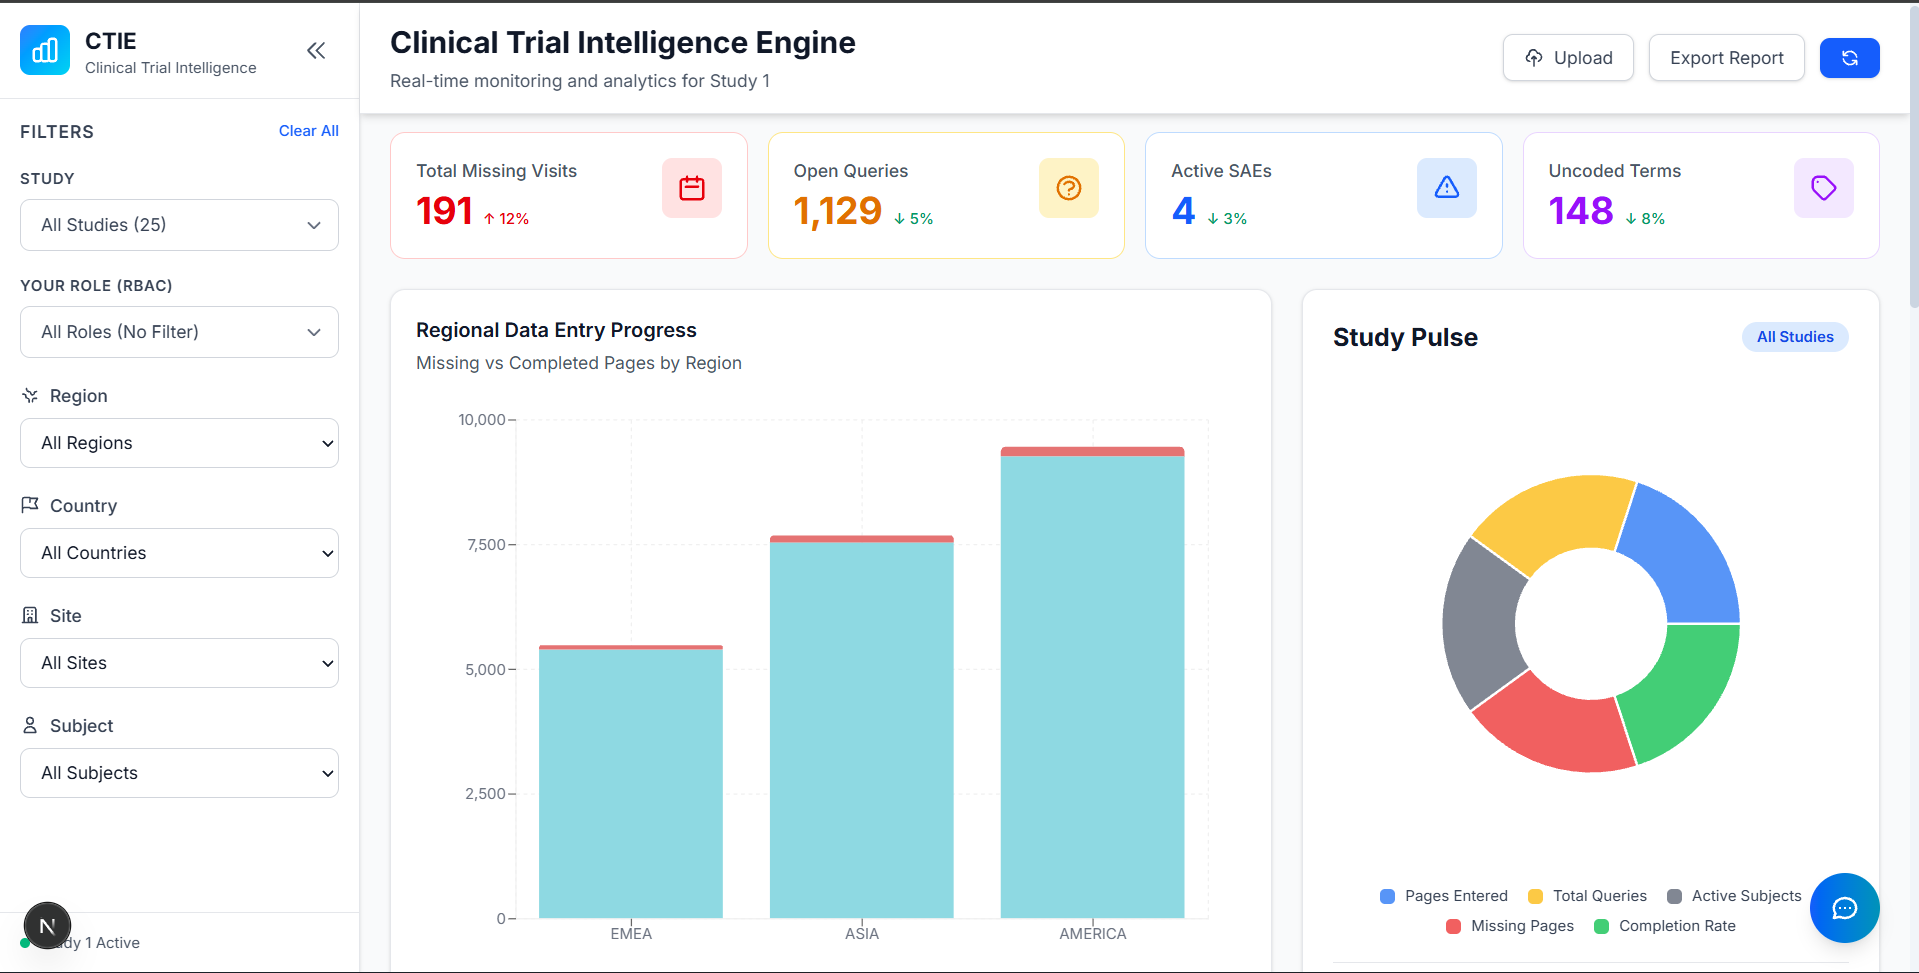
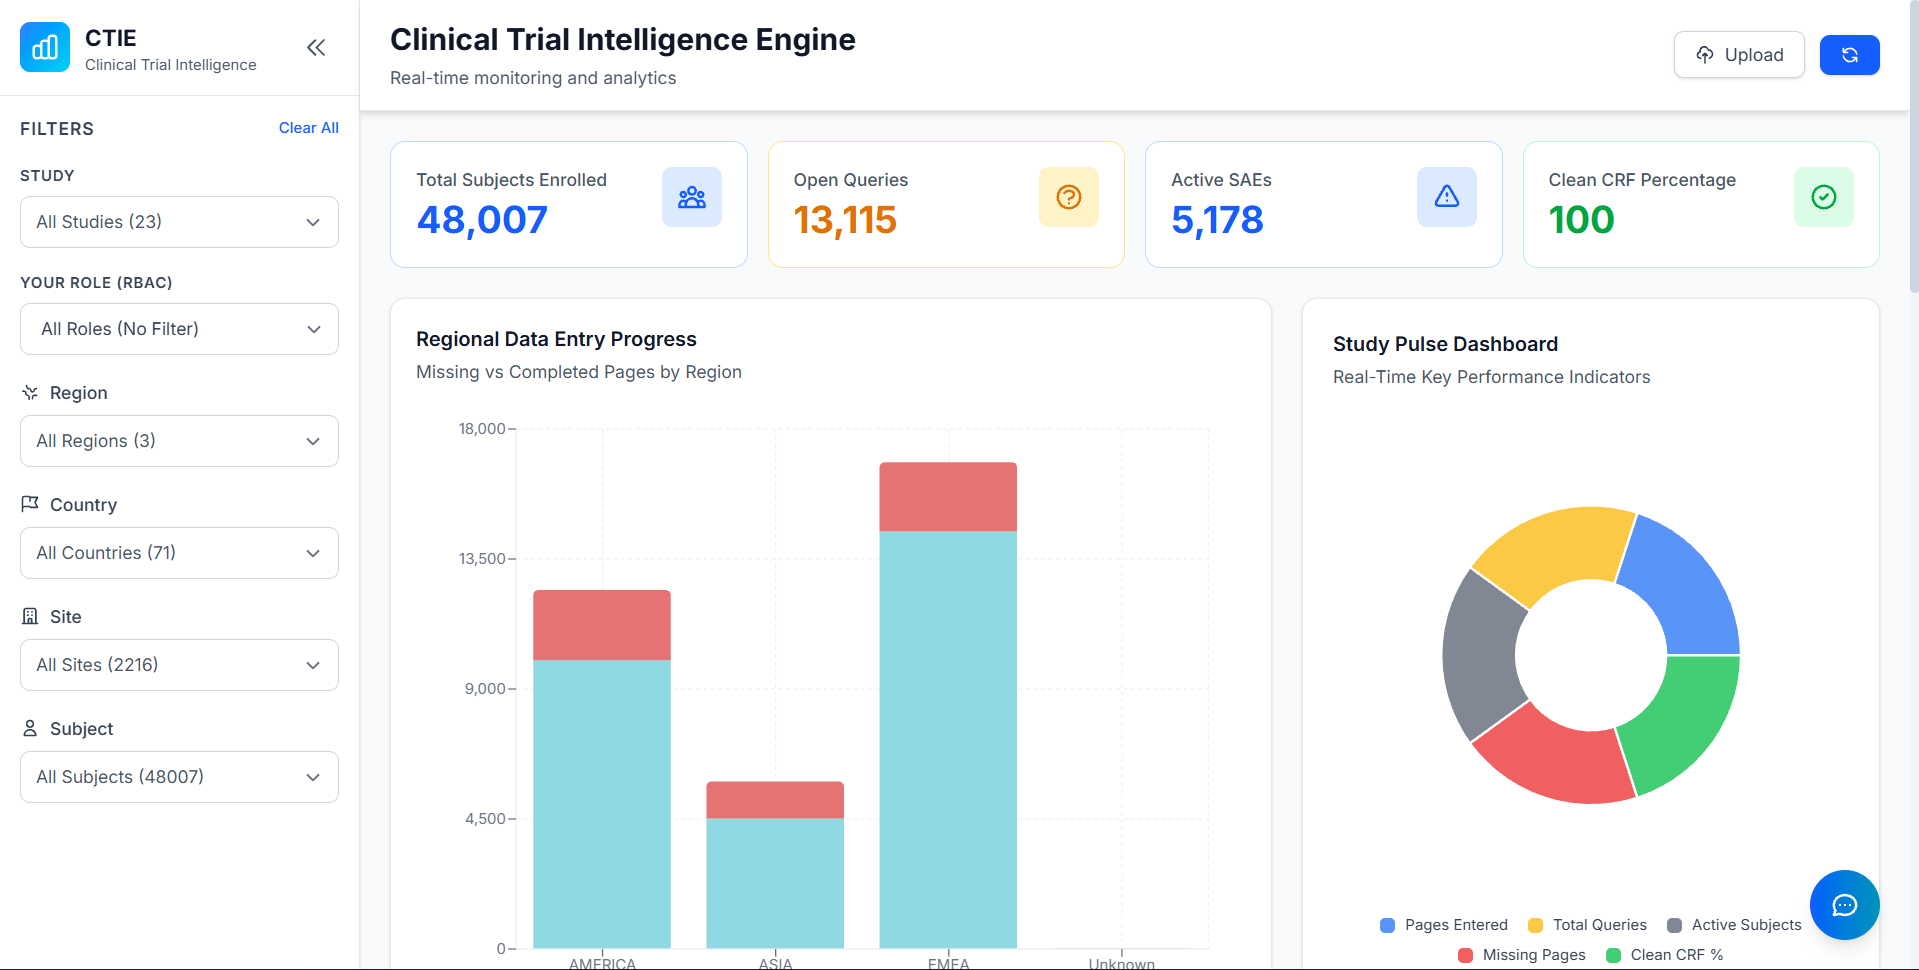
Updated Readme File

diff --git a/app/dashboard/page.tsx b/app/dashboard/page.tsx
@@ -936,9 +936,6 @@ export default function DashboardPage() {
                 </svg>
                 Upload
               </button>
-              <button className="px-4 py-2 bg-white hover:bg-gray-50 border border-gray-300 rounded-lg text-sm text-gray-700 transition-colors shadow-sm">
-                Export Report
-              </button>
               <button className="px-4 py-2 bg-blue-600 hover:bg-blue-700 rounded-lg text-sm text-white font-medium transition-colors flex items-center gap-2 shadow-sm">
                 <svg
                   className="w-4 h-4"

diff --git a/components/dashboard/Sidebar.tsx b/components/dashboard/Sidebar.tsx
@@ -738,14 +738,6 @@ export default function Sidebar({
           </div>
         )}
       </div>
-
-      {/* Footer */}
-      <div className="p-4 border-t border-gray-200">
-        <div className="flex items-center gap-2 text-xs text-gray-600">
-          <div className="w-2 h-2 rounded-full bg-emerald-500 animate-pulse"></div>
-          <span>Study 1 Active</span>
-        </div>
-      </div>
     </aside>
   );
 }

diff --git a/README.md b/README.md
@@ -7,12 +7,14 @@
 ## 📋 Problem Statement
 
 Clinical trials generate vast amounts of heterogeneous data from multiple sources, including:
+
 - **Electronic Data Capture (EDC) systems**
 - **Laboratory reports**
 - **Site operational metrics**
 - **Monitoring logs**
 
 However, these data streams often remain **siloed**, leading to:
+
 - Delayed identification of operational bottlenecks
 - Inconsistent data quality
 - Limited visibility for scientific decision-making
@@ -30,6 +32,7 @@ There is a critical need for an **integrated solution** that can:
 3. **Proactively detect** data quality issues and operational inefficiencies
 
 Furthermore, the solution should leverage **Generative and Agentic AI** capabilities to:
+
 - Enable intelligent collaboration
 - Automate routine tasks
 - Provide context-aware recommendations to stakeholders
@@ -41,6 +44,7 @@ This accelerates trial execution and improves scientific outcomes.
 ## ✨ Features
 
 ### Landing Page
+
 - Modern, professional UI with animated particles background
 - Interactive hero section with call-to-action
 - Bento-style feature grid showcasing capabilities
@@ -52,6 +56,7 @@ This accelerates trial execution and improves scientific outcomes.
 The dashboard provides comprehensive real-time insights across multiple domains:
 
 #### 📊 KPI Cards
+
 - **Total Subjects** - Active trial participants
 - **Total Queries** - Data clarification requests
 - **SDV Records** - Source Data Verification count
@@ -61,19 +66,21 @@ The dashboard provides comprehensive real-time insights across multiple domains:
 
 #### 📈 Data Visualizations
 
-| Chart | Description |
-|-------|-------------|
+| Chart                          | Description                                                                        |
+| ------------------------------ | ---------------------------------------------------------------------------------- |
 | **Regional Stacked Bar Chart** | Data entry progress by region (North America, Europe, Asia Pacific, Latin America) |
-| **Country Composed Chart** | Country-level performance metrics with dual-axis visualization |
-| **SAE Donut Chart** | Serious Adverse Events distribution by category |
-| **Coding Treemap** | Medical coding categories visualization with hierarchical data |
+| **Country Composed Chart**     | Country-level performance metrics with dual-axis visualization                     |
+| **SAE Donut Chart**            | Serious Adverse Events distribution by category                                    |
+| **Coding Treemap**             | Medical coding categories visualization with hierarchical data                     |
 
 #### 🔬 Study Pulse Panel
+
 - Real-time study health monitoring
 - Key metrics at a glance
 - Alert indicators for issues requiring attention
 
 #### 📋 Data Tables
+
 - **Site Performance Table** - Detailed site-level metrics with click-through navigation
 - **Subject Table** - Individual subject data with risk indicators
 - **Patient 360 Modal** - Comprehensive patient view with:
@@ -88,47 +95,59 @@ The dashboard provides comprehensive real-time insights across multiple domains:
 ## 🖼 Screenshots
 
 ### Landing Page
+
 ![Landing Page](./public/screenshots/landing_page.png)
-*Modern landing page with animated particles and glassmorphism design*
+_Interactive landing page featuring animated particle effects and glassmorphism UI elements_
 
 ### Dashboard Overview
+
 ![Dashboard](./public/screenshots/dashboard.png)
-*Main dashboard with KPI cards and regional data visualization*
+_Main dashboard displaying real-time KPI metrics and regional data analytics_
+
+![KPI Cards Drill View](./public/screenshots/KPICardsDrillView.png)
+_Detailed drill-down view for individual KPI card analysis_
+
+![Study and Region Filter](public/screenshots/Study_RegionFilter.png)
+_Advanced filtering capabilities by study and geographic region_
 
 ### Dashboard Analytics
+
 ![Analytics](./public/screenshots/dashboard_analytics.png)
-*SAE distribution and coding treemap visualizations*
+_Advanced visualizations showing Serious Adverse Event distribution and hierarchical medical coding analysis_
 
 ### Patient 360 View
+
 ![Patient 360](./public/screenshots/patient360.png)
-*Comprehensive patient data modal with visit timeline*
+_Comprehensive patient profile with complete visit timeline, lab results, and adverse event tracking_
+
+### Upload Feature for Excel Sheets
+
+![Upload Feature](public/screenshots/Upload.png)
+_Dynamic data ingestion with real-time dashboard updates upon study file upload_
 
 ---
 
 ## 🚀 Getting Started
 
 ### Prerequisites
-- Node.js 18+ 
+
+- Node.js 18+
 - npm/yarn/pnpm/bun
 
 ### Installation
 
 ```bash
 # Clone the repository
-git clone <repository-url>
+git clone "https://github.com/pranavbafna586/NEST-Dashboard"
 cd nest
 
 # Install dependencies
-npm install
-# or
 pnpm install
 ```
 
 ### Development
 
 ```bash
-npm run dev
-# or
 pnpm dev
 ```
 
@@ -190,6 +209,7 @@ nest/
 ## 📊 Data Sources
 
 The dashboard ingests and processes data from the following sources:
+
 - QC Anonymized Study Files (Excel datasets)
 - Subject demographics and enrollment
 - Query management records
